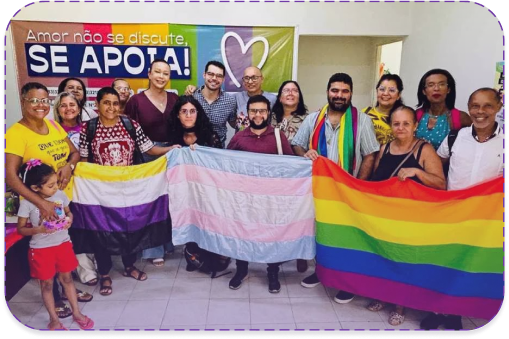
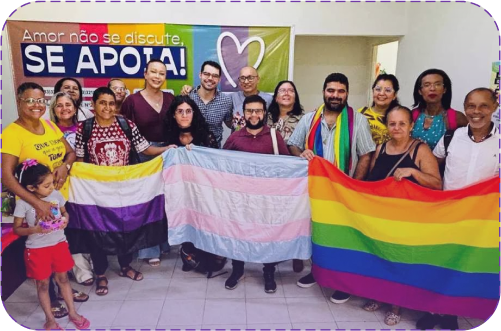
Ajustes e Acessibilidade
Ajustando alguns detalhes de alguns elementos

diff --git a/src/css/style.css b/src/css/style.css
@@ -110,9 +110,13 @@
     width: 335px;
     height: auto;
 }
+#conteudo #introducao .ilustracao img {
+    background: none;
+    filter: drop-shadow(0px 4px 4px 0px rgba(106, 78, 166, 0.05), 0px 4px 4px 0px rgba(0, 0, 0, 0.10));
+}
 #conteudo #introducao .frase-efeito {
     text-align: center;
-    text-shadow: 0px 4px 4px rgba(0, 0, 0, 0.10);
+    text-shadow: 0px 4px 4px rgba(106, 78, 166, 0.05), 0px 4px 4px rgba(0, 0, 0, 0.10);
     font-family: var(--titulo);
     font-size: 28px;
     font-weight: 400;
@@ -192,10 +196,10 @@
     height: auto;
 }
 #conteudo #finalidades .img img,
-#conteudo #mapeamento .img img {
+#conteudo #mapeamento .img img,
+#conteudo #conselho-municipal .img img {
     border-radius: 35px;
-    border: 1.5px dashed var(--roxa-escura);
-    filter: drop-shadow(0px 4px 4px 0px rgba(106, 78, 166, 0.05), 0px 4px 4px 0px rgba(0, 0, 0, 0.10));
+    box-shadow: 0px 4px 4px 0px rgba(106, 78, 166, 0.05), 0px 4px 4px 0px rgba(0, 0, 0, 0.10);
 }
 
 #conteudo #atividades,
@@ -283,8 +287,8 @@
     gap: 5em;
     width: max-content;
     height: auto;
-    padding-left: calc(100vw - 329px);
-    padding-right: calc(100vw - 329px);
+    padding-left: calc(100vw - 335px);
+    padding-right: calc(100vw - 335px);
     overflow-x: auto;
 }
 #conteudo #membres .ilustracoes .imgs figure,
@@ -324,7 +328,7 @@
 #conteudo #membres .frase-efeito,
 #conteudo #direitos .frase-efeito {
     text-align: center;
-    text-shadow: 0px 4px 4px rgba(242, 229, 48, 0.05), 0px 4px 4px rgba(0, 0, 0, 0.10);
+    text-shadow: 0px 4px 4px rgba(106, 78, 166, 0.05), 0px 4px 4px rgba(0, 0, 0, 0.10);
     font-family: var(--titulo);
     font-size: 24px;
     font-weight: 400;
@@ -349,7 +353,7 @@
     gap: 8em;
 }
 #conteudo #parceires .parceires .parceire {
-    gap: 4em;
+    gap: 5em;
 }
 #conteudo #parceires .parceires .parceire .img {
     width: 250px;
@@ -423,7 +427,8 @@
     border: none;
     background-color: var(--amarela);
     color: var(--preta);
-    margin: .9em 7% 1em;
+    margin: .9em auto 1em;
+    max-width: 260px;
 }
 #conteudo #mapeamento .textos a:hover,
 #conteudo #mapeamento .textos a:focus-visible {
@@ -475,7 +480,6 @@
 }
 #conteudo #direitos .direitos .card .img img {
     border-radius: 35px;
-    background: linear-gradient(180deg, rgba(106, 78, 166, 0.00) 0%, rgba(106, 78, 166, 0.50) 100%), lightgray -9px 0px / 117.857% 100% no-repeat;
     box-shadow: 0px 4px 4px 0px rgba(106, 78, 166, 0.05), 0px 4px 4px 0px rgba(0, 0, 0, 0.10);
     transition: .2s ease-out;
 }
@@ -514,6 +518,7 @@
 #conteudo #conselho-municipal .textos a {
     margin: .9em auto 1em;
     padding: 15px 20px;
+    max-width: 290px;
 }
 
 #conteudo #topo {
@@ -656,4 +661,8 @@
 #rodape .img {
     width: 335px;
     height: auto;
+}
+#rodape .img img {
+    background: none;
+    filter: drop-shadow(0px 4px 4px 0px rgba(106, 78, 166, 0.05), 0px 4px 4px 0px rgba(0, 0, 0, 0.10));
 }

diff --git a/index.html b/index.html
@@ -257,7 +257,7 @@
         </section>
 
         <section id="parceires">
-            <h1 class="titulo">Nosses Parceires</h1>
+            <h1 class="titulo">Conheça Nosses Parceires</h1>
 
             <div class="parceires">
                 <article class="parceire">

diff --git a/src/css/reset.css b/src/css/reset.css
@@ -45,6 +45,7 @@ button {
 img {
     width: 100%;
     height: 100%;
+    background: linear-gradient(180deg, rgba(106, 78, 166, 0.00) 0%, rgba(106, 78, 166, 0.50) 100%), lightgray -9px 0px / 117.857% 100% no-repeat;
 }
 
 :focus {

diff --git a/src/css/responsive.css b/src/css/responsive.css
@@ -1,1 +1,11 @@
 @charset 'UTF-8';
+
+@media screen and (min-width: 1200px) {
+    body {
+        font-size: 1vw;
+    }
+
+    #cabecalho .icone {
+        display: none;
+    }
+}
